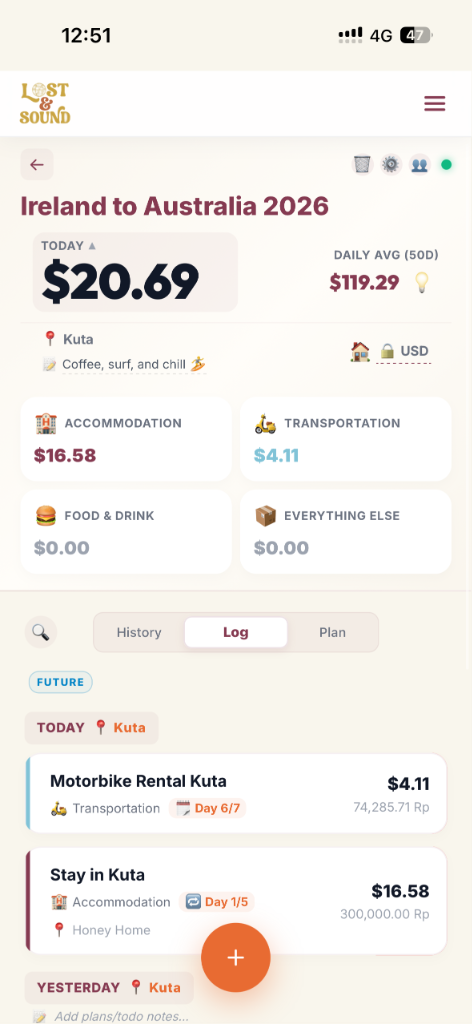
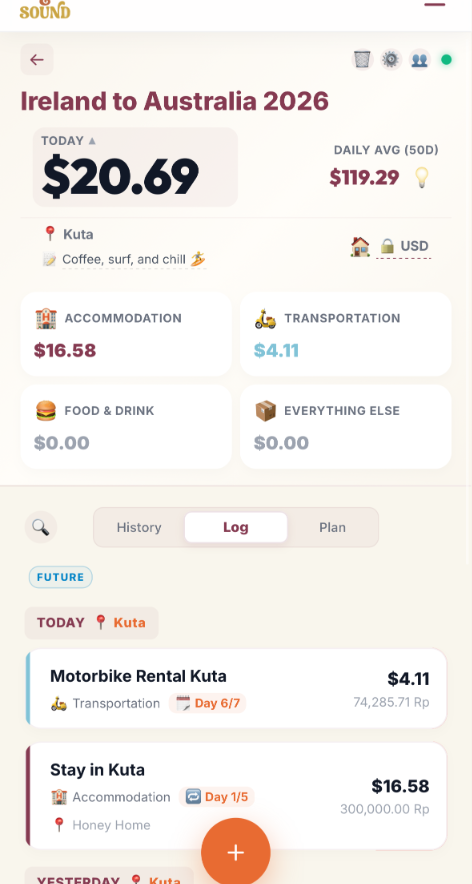
Crop iOS status bars from screenshots and implement high-contrast showcase features on landing page

diff --git a/webapp/app/page.jsx b/webapp/app/page.jsx
@@ -43,107 +43,160 @@ export default function Home() {
 
       <StorySection isExcerpt={true} />
 
-      <section style={{ backgroundColor: 'var(--color-purple)', color: 'white', borderRadius: '80px 80px 0 0', padding: '120px 24px', overflow: 'hidden' }}>
-        <div className="container" style={{ display: 'flex', flexDirection: 'row', gap: '60px', alignItems: 'center', flexWrap: 'wrap' }}>
+      <section style={{ backgroundColor: 'var(--color-purple)', color: 'white', borderRadius: '80px 80px 0 0', padding: '100px 24px', overflow: 'hidden' }}>
+        <div className="container" style={{ maxWidth: '1000px', margin: '0 auto' }}>
           
-          {/* Left Column: Copy */}
-          <div style={{ flex: '1 1 400px', minWidth: '320px' }}>
+          {/* Section Header */}
+          <div style={{ textAlign: 'center', marginBottom: '60px', maxWidth: '800px', margin: '0 auto 60px' }}>
             <span style={{
               textTransform: 'uppercase',
               letterSpacing: '2px',
-              fontSize: '0.9rem',
+              fontSize: '0.85rem',
               fontWeight: 800,
               color: 'var(--color-golden)',
               display: 'block',
               marginBottom: '10px'
             }}>
-              Now Live in Beta
+              Free Travel Companion App
             </span>
-            <h2 style={{ fontSize: '3.5rem', color: 'white', margin: '0 0 20px 0', lineHeight: '1.1' }}>
+            <h2 style={{ fontSize: '3rem', color: 'white', margin: '0 0 20px 0', fontFamily: 'var(--font-heading)' }}>
               Lost & Sound Tracks
             </h2>
-            <p style={{ fontSize: '1.25rem', fontWeight: 650, color: 'rgba(255,255,255,0.9)', marginBottom: '30px', lineHeight: '1.4' }}>
-              Remember where you went, stay on track of what you spent. A companion app to journal your travel experiences.
+            <p style={{ fontSize: '1.2rem', color: 'rgba(255,255,255,0.9)', lineHeight: '1.6', margin: '0 0 16px' }}>
+              Unlike cumbersome, battery-draining trackers like Polarsteps, Tracks is designed to be lightweight, responsive, and acts as a beautiful memory bank of your trips. 
             </p>
-
-            <div style={{ display: 'flex', flexDirection: 'column', gap: '20px', marginBottom: '40px' }}>
-              <div style={{ display: 'flex', gap: '14px', alignItems: 'flex-start' }}>
-                <span style={{ fontSize: '1.5rem' }}>📸</span>
-                <div>
-                  <h4 style={{ color: 'var(--color-golden)', fontSize: '1.15rem', fontWeight: 800, margin: '0 0 4px 0' }}>Journal Your Travel Stories</h4>
-                  <p style={{ margin: 0, fontSize: '0.95rem', color: 'rgba(255,255,255,0.8)', lineHeight: '1.5' }}>
-                    Log local destinations, snap photos, write logs, and organize your trip chronologically in a collaborative feed.
-                  </p>
-                </div>
-              </div>
-
-              <div style={{ display: 'flex', gap: '14px', alignItems: 'flex-start' }}>
-                <span style={{ fontSize: '1.5rem' }}>💸</span>
-                <div>
-                  <h4 style={{ color: 'var(--color-golden)', fontSize: '1.15rem', fontWeight: 800, margin: '0 0 4px 0' }}>Real-Time Expense Tracking</h4>
-                  <p style={{ margin: 0, fontSize: '0.95rem', color: 'rgba(255,255,255,0.8)', lineHeight: '1.5' }}>
-                    Track multi-currency transactions, split costs with partners in real-time, and analyze spending by category.
-                  </p>
-                </div>
-              </div>
-
-              <div style={{ display: 'flex', gap: '14px', alignItems: 'flex-start' }}>
-                <span style={{ fontSize: '1.5rem' }}>🌍</span>
-                <div>
-                  <h4 style={{ color: 'var(--color-golden)', fontSize: '1.15rem', fontWeight: 800, margin: '0 0 4px 0' }}>Public Discover Feed</h4>
-                  <p style={{ margin: 0, fontSize: '0.95rem', color: 'rgba(255,255,255,0.8)', lineHeight: '1.5' }}>
-                    Make your tracks public so others can inspect route prices instantly converted to their preferred viewer currency.
-                  </p>
-                </div>
-              </div>
-            </div>
-
+            <p style={{ fontSize: '1rem', color: 'rgba(255,255,255,0.75)', lineHeight: '1.6', margin: '0 0 30px' }}>
+              It is a completely free companion tool designed to make budgeting and journaling travel experiences easy, offline-first, and fun to look back on and share with friends and family.
+            </p>
             <Link href="/tracker" className="btn btn-primary" style={{
               backgroundColor: 'var(--color-golden)',
               color: 'var(--color-purple)',
-              padding: '16px 36px',
-              fontSize: '1.1rem',
+              padding: '14px 32px',
+              fontSize: '1rem',
               fontWeight: 800,
               borderRadius: '30px',
+              textDecoration: 'none',
               display: 'inline-flex',
               alignItems: 'center',
               gap: '8px',
-              border: 'none',
-              boxShadow: '0 10px 25px rgba(232, 180, 100, 0.25)',
-              textDecoration: 'none'
+              boxShadow: '0 10px 25px rgba(232, 180, 100, 0.2)'
             }}>
-              🚀 Try Tracks Companion App
+              🚀 Open Free Tracks App
             </Link>
           </div>
 
-          {/* Right Column: Screenshot Grid */}
-          <div style={{
-            flex: '1 1 400px',
-            display: 'flex',
-            justifyContent: 'center',
-            alignItems: 'center',
-            position: 'relative'
+          {/* Feature Showcase Grid (2x2) */}
+          <div style={{ 
+            display: 'grid', 
+            gridTemplateColumns: 'repeat(auto-fit, minmax(400px, 1fr))', 
+            gap: '40px',
+            marginTop: '40px'
           }}>
-            <div style={{
-              display: 'grid',
-              gridTemplateColumns: 'repeat(2, 1fr)',
-              gap: '16px',
-              maxWidth: '100%',
-              boxSizing: 'border-box'
+            
+            {/* Feature 1 */}
+            <div style={{ 
+              backgroundColor: 'rgba(255, 255, 255, 0.03)', 
+              borderRadius: '24px', 
+              padding: '30px', 
+              border: '1.5px solid rgba(255, 255, 255, 0.08)',
+              display: 'flex',
+              flexDirection: 'column',
+              gap: '20px'
             }}>
-              <div style={{ borderRadius: '16px', overflow: 'hidden', boxShadow: '0 12px 30px rgba(0,0,0,0.22)', border: '4px solid rgba(255, 255, 255, 0.08)' }}>
-                <img src="/assets/screenshot_dashboard.png" alt="Dashboard" style={{ width: '100%', height: 'auto', display: 'block' }} />
-              </div>
-              <div style={{ borderRadius: '16px', overflow: 'hidden', boxShadow: '0 12px 30px rgba(0,0,0,0.22)', border: '4px solid rgba(255, 255, 255, 0.08)' }}>
-                <img src="/assets/screenshot_log_expense.png" alt="Log Expense" style={{ width: '100%', height: 'auto', display: 'block' }} />
-              </div>
-              <div style={{ borderRadius: '16px', overflow: 'hidden', boxShadow: '0 12px 30px rgba(0,0,0,0.22)', border: '4px solid rgba(255, 255, 255, 0.08)' }}>
-                <img src="/assets/screenshot_plan.png" alt="Plan" style={{ width: '100%', height: 'auto', display: 'block' }} />
-              </div>
-              <div style={{ borderRadius: '16px', overflow: 'hidden', boxShadow: '0 12px 30px rgba(0,0,0,0.22)', border: '4px solid rgba(255, 255, 255, 0.08)' }}>
-                <img src="/assets/screenshot_history.png" alt="History Search" style={{ width: '100%', height: 'auto', display: 'block' }} />
+              <div style={{ display: 'flex', gap: '20px', alignItems: 'center', flexWrap: 'wrap' }}>
+                <div style={{ width: '120px', borderRadius: '12px', overflow: 'hidden', boxShadow: '0 8px 24px rgba(0,0,0,0.3)', border: '2.5px solid rgba(255,255,255,0.1)', flexShrink: 0 }}>
+                  <img src="/assets/screenshot_dashboard.png" alt="Dashboard" style={{ width: '100%', height: 'auto', display: 'block' }} />
+                </div>
+                <div style={{ flex: 1, minWidth: '200px' }}>
+                  <span style={{ fontSize: '0.75rem', fontWeight: 800, color: 'var(--color-golden)', textTransform: 'uppercase', letterSpacing: '1px' }}>Core Tagline</span>
+                  <h3 style={{ fontSize: '1.35rem', fontWeight: 850, color: 'white', margin: '6px 0 10px', lineHeight: '1.25' }}>
+                    Remember where you went. Stay on top of what you spent.
+                  </h3>
+                  <p style={{ margin: 0, fontSize: '0.9rem', color: 'rgba(255,255,255,0.8)', lineHeight: '1.5' }}>
+                    Tracks serves as a beautiful memory bank. Log daily stats, currencies, and budgets manually without background processes draining your battery.
+                  </p>
+                </div>
               </div>
             </div>
+
+            {/* Feature 2 */}
+            <div style={{ 
+              backgroundColor: 'rgba(255, 255, 255, 0.03)', 
+              borderRadius: '24px', 
+              padding: '30px', 
+              border: '1.5px solid rgba(255, 255, 255, 0.08)',
+              display: 'flex',
+              flexDirection: 'column',
+              gap: '20px'
+            }}>
+              <div style={{ display: 'flex', gap: '20px', alignItems: 'center', flexWrap: 'wrap' }}>
+                <div style={{ width: '120px', borderRadius: '12px', overflow: 'hidden', boxShadow: '0 8px 24px rgba(0,0,0,0.3)', border: '2.5px solid rgba(255,255,255,0.1)', flexShrink: 0 }}>
+                  <img src="/assets/screenshot_log_expense.png" alt="Log Expense" style={{ width: '100%', height: 'auto', display: 'block' }} />
+                </div>
+                <div style={{ flex: 1, minWidth: '200px' }}>
+                  <span style={{ fontSize: '0.75rem', fontWeight: 800, color: 'var(--color-golden)', textTransform: 'uppercase', letterSpacing: '1px' }}>Quick Logging</span>
+                  <h3 style={{ fontSize: '1.35rem', fontWeight: 850, color: 'white', margin: '6px 0 10px', lineHeight: '1.25' }}>
+                    Lightning-fast expensing & "Worth it" flags.
+                  </h3>
+                  <p style={{ margin: 0, fontSize: '0.9rem', color: 'rgba(255,255,255,0.8)', lineHeight: '1.5' }}>
+                    Log multi-currency details completely offline. Use our signature "Worth It" star to tag whenever a local deal, meal, or splurge was genuinely worth the money.
+                  </p>
+                </div>
+              </div>
+            </div>
+
+            {/* Feature 3 */}
+            <div style={{ 
+              backgroundColor: 'rgba(255, 255, 255, 0.03)', 
+              borderRadius: '24px', 
+              padding: '30px', 
+              border: '1.5px solid rgba(255, 255, 255, 0.08)',
+              display: 'flex',
+              flexDirection: 'column',
+              gap: '20px'
+            }}>
+              <div style={{ display: 'flex', gap: '20px', alignItems: 'center', flexWrap: 'wrap' }}>
+                <div style={{ width: '120px', borderRadius: '12px', overflow: 'hidden', boxShadow: '0 8px 24px rgba(0,0,0,0.3)', border: '2.5px solid rgba(255,255,255,0.1)', flexShrink: 0 }}>
+                  <img src="/assets/screenshot_plan.png" alt="Plan" style={{ width: '100%', height: 'auto', display: 'block' }} />
+                </div>
+                <div style={{ flex: 1, minWidth: '200px' }}>
+                  <span style={{ fontSize: '0.75rem', fontWeight: 800, color: 'var(--color-golden)', textTransform: 'uppercase', letterSpacing: '1px' }}>Itinerary planning</span>
+                  <h3 style={{ fontSize: '1.35rem', fontWeight: 850, color: 'white', margin: '6px 0 10px', lineHeight: '1.25' }}>
+                    Stay flexible by planning your forward-looking itinerary.
+                  </h3>
+                  <p style={{ margin: 0, fontSize: '0.9rem', color: 'rgba(255,255,255,0.8)', lineHeight: '1.5' }}>
+                    Map out daily pacing, targets, and notes day-by-day without being locked into rigid planner schedules.
+                  </p>
+                </div>
+              </div>
+            </div>
+
+            {/* Feature 4 */}
+            <div style={{ 
+              backgroundColor: 'rgba(255, 255, 255, 0.03)', 
+              borderRadius: '24px', 
+              padding: '30px', 
+              border: '1.5px solid rgba(255, 255, 255, 0.08)',
+              display: 'flex',
+              flexDirection: 'column',
+              gap: '20px'
+            }}>
+              <div style={{ display: 'flex', gap: '20px', alignItems: 'center', flexWrap: 'wrap' }}>
+                <div style={{ width: '120px', borderRadius: '12px', overflow: 'hidden', boxShadow: '0 8px 24px rgba(0,0,0,0.3)', border: '2.5px solid rgba(255,255,255,0.1)', flexShrink: 0 }}>
+                  <img src="/assets/screenshot_history.png" alt="History" style={{ width: '100%', height: 'auto', display: 'block' }} />
+                </div>
+                <div style={{ flex: 1, minWidth: '200px' }}>
+                  <span style={{ fontSize: '0.75rem', fontWeight: 800, color: 'var(--color-golden)', textTransform: 'uppercase', letterSpacing: '1px' }}>Memory search</span>
+                  <h3 style={{ fontSize: '1.35rem', fontWeight: 850, color: 'white', margin: '6px 0 10px', lineHeight: '1.25' }}>
+                    Fast search & instant cost retrieval.
+                  </h3>
+                  <p style={{ margin: 0, fontSize: '0.9rem', color: 'rgba(255,255,255,0.8)', lineHeight: '1.5' }}>
+                    Search past expenses to recall flight departure details, check lodging addresses, look up flight times, or share cost details.
+                  </p>
+                </div>
+              </div>
+            </div>
+
           </div>
 
         </div>
